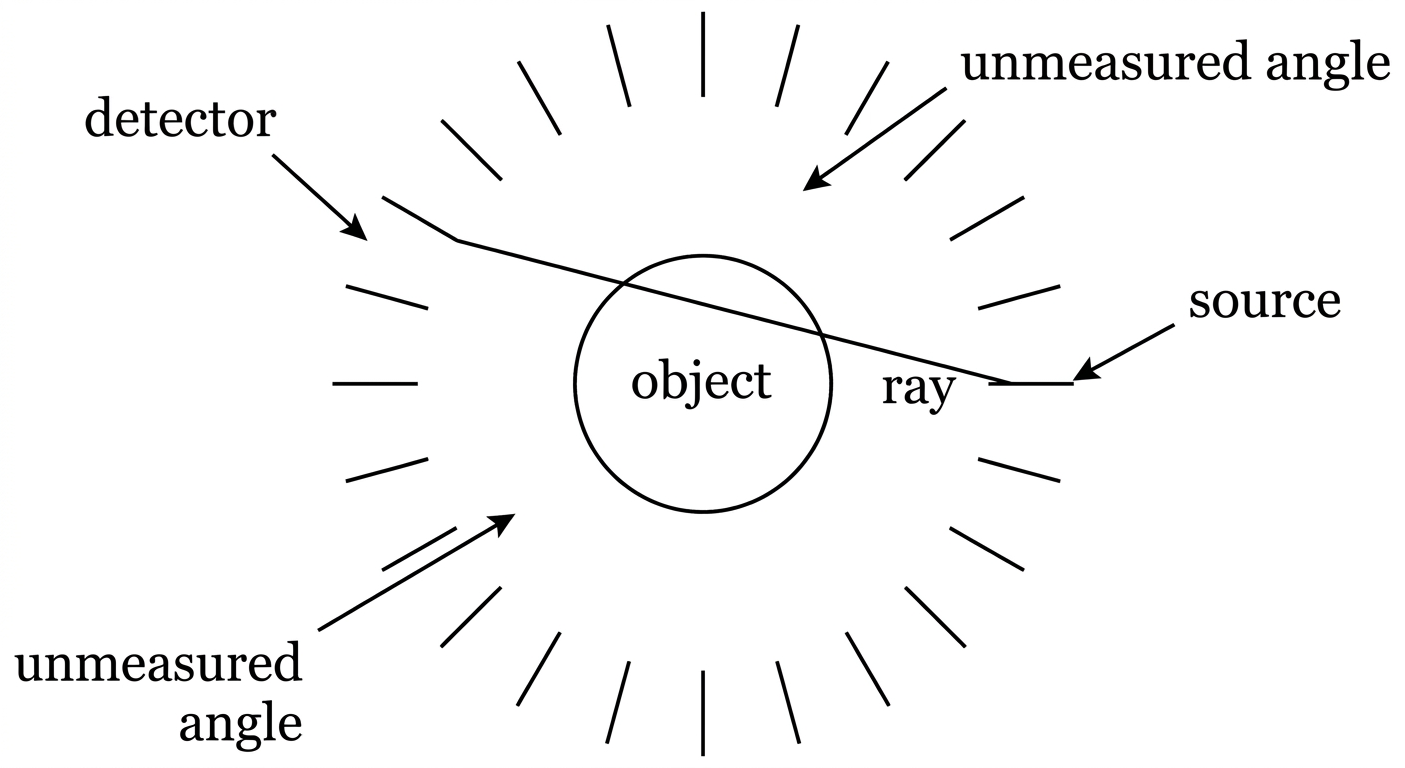
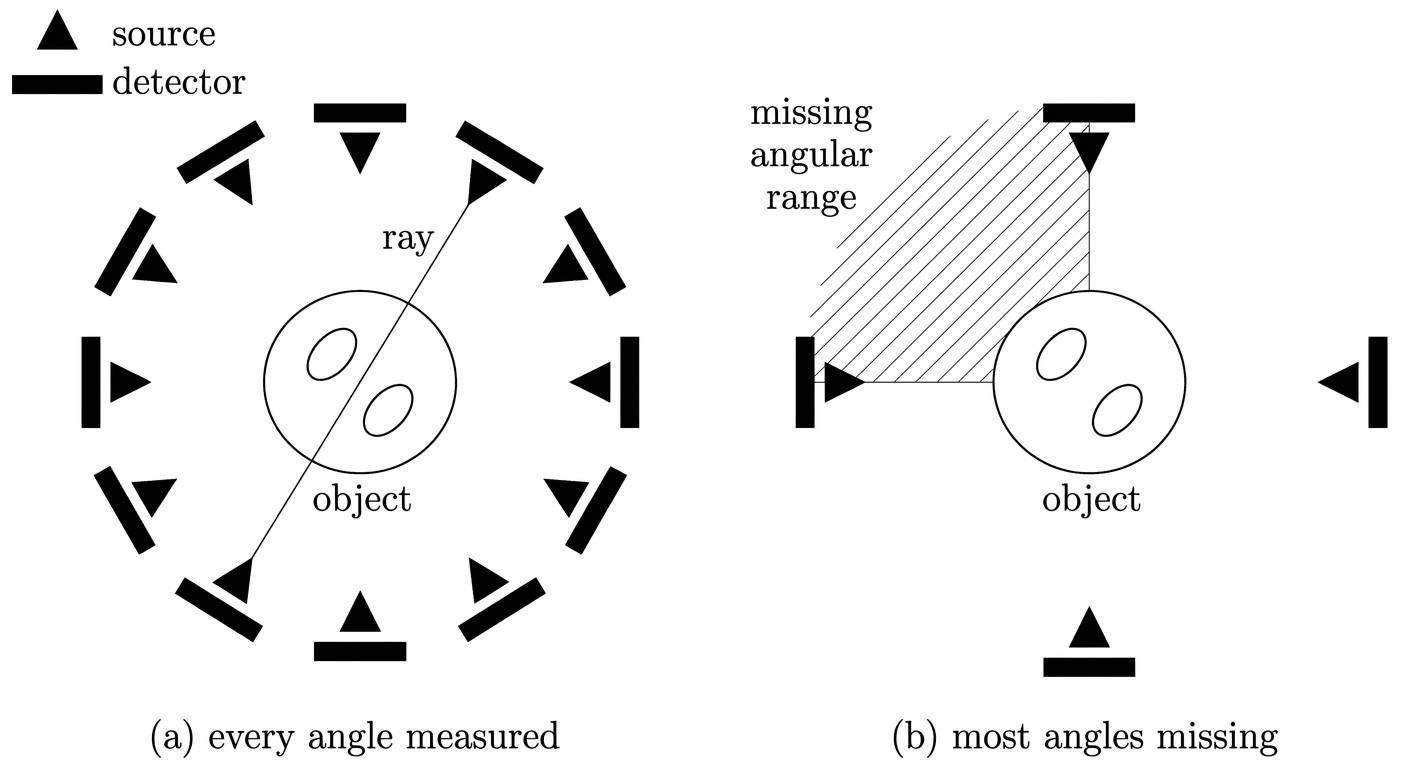
Redraw the CT and reservoir plates as two-panel diagrams
Both were single line drawings that stated their content without showing it. The
CT plate was a broken ring of identical radial ticks in which source and detector
were the same shape, so the only thing the reader could learn from it was "some
angles are absent". The reservoir plate was a layer stack whose plume sat as one
blob, while the chapter's argument is about a sequence.

Each is now a two-panel contrast, which is the form that carries the claim:

  CT geometry -- panel (a) twelve source-detector pairs spaced all the way round,
  panel (b) four pairs with the unsampled wedge hatched. Sources are filled
  triangles, detectors thick bars, identified by a corner legend rather than
  leader lines: three regeneration attempts showed that a model aiming a leader
  line will land it on the wrong object, and here it labelled a detector as a
  source. A legend removes the failure mode instead of asking for care. The ray
  is drawn with no arrowhead so it cannot be read as another source.

  Reservoir setting -- panel (a) the cross-section with the fault throw visible,
  the well turning horizontal in the reservoir and the plume shaded against the
  caprock; panel (b) the same stack three times, rises, arrests, spreads. The
  chapter's prose now points at that sequence rather than describing it only in
  words, and "base" became "basement" to match the plate.

Policy unchanged: structural content only, no depths, angles, counts, colorbars
[…]

diff --git a/figures/make_diagrams.py b/figures/make_diagrams.py
@@ -128,33 +128,56 @@ PROMPTS: dict[str, dict] = {
     "fig_subsurface_geometry": {
         "host": "chapters/part3/04-subsurface-multiphase-flow-and-carbon-stor.tex",
         "text": (
-            "A single 2D geological cross-section, schematic, drawn only with lines and "
-            "labels. A rectangle. Inside it, from top to bottom, four horizontal layers "
-            "separated by thin lines, labelled on the right edge in this order: "
-            "'overburden', 'caprock', 'reservoir', 'base'. A single straight fault line "
-            "cuts diagonally through all four layers, offsetting the layer boundaries on "
-            "the right side downward, and is labelled 'fault'. A thin vertical-then-"
-            "horizontal line enters from the top and ends inside the reservoir layer, "
-            "labelled 'injection well'. A closed lens-shaped region drawn just below the "
-            "caprock inside the reservoir, adjacent to the fault, is labelled 'plume'.\n"
-            "No numbers, no depths, no distances, no axis ticks, no color, no shading, no "
-            "colorbar, no percentages, no time labels."
+            "Two panels side by side, labelled (a) and (b). Clean textbook cross-section, thin black "
+            "lines on white, generous spacing, no clutter.\n\n"
+            "PANEL (a) - the setting. A wide rectangle divided by three horizontal lines into four "
+            "stacked bands. Name each band inside its own band, left aligned, top to bottom: "
+            "'overburden', 'caprock', 'reservoir', 'basement'. One straight fault line runs "
+            "diagonally from the top edge to the bottom edge, cutting all four bands, and the bands "
+            "right of the fault are drawn slightly lower than left of it so the throw is visible. "
+            "Label it 'fault' with a short leader line onto the diagonal. A well enters vertically "
+            "through overburden and caprock, then turns horizontal inside the reservoir; label it "
+            "'injection well'. A shaded lens-shaped body sits in the reservoir touching the underside "
+            "of the caprock; label it 'CO2 plume'. Add a small upward arrow under the lens and a "
+            "rightward arrow along the top of the reservoir.\n\n"
+            "PANEL (b) - what must be resolved. Three small copies of the same layer stack side by "
+            "side, fault omitted for clarity. First: a small blob just above the well tip with an "
+            "upward arrow, captioned 'rises'. Second: the blob flattened against the underside of the "
+            "caprock, captioned 'arrests'. Third: a wide thin lens spread along the caprock, "
+            "captioned 'spreads'. Below the three, one line: 'the far edge, not the interior, is what "
+            "containment asks about'.\n\n"
+            "No numbers, no depths, no thicknesses, no distances, no years, no axis ticks, no "
+            "colorbar, no grayscale field. The only filled shape is the plume lens."
         ),
     },
     "fig_ct_geometry": {
         "host": "chapters/part3/06-medical-imaging-and-tomographic-reconstruc.tex",
         "text": (
-            "A single 2D schematic of a tomographic acquisition geometry. A circle in the "
-            "middle labelled 'object'. Around it, a broken ring of short radial line "
-            "segments indicating detector positions, with wide angular gaps left empty. "
-            "One leader line points to a segment labelled 'detector', one points to a "
-            "source position opposite it labelled 'source', and one points into an empty "
-            "gap labelled 'unmeasured angle'. A single straight line passes from a source "
-            "position through the circle to a detector position, labelled 'ray'.\n"
-            "No numbers, no counts, no color, no shading, no reconstructed image, no "
-            "grayscale phantom, no axis ticks."
+            "Two panels side by side, labelled (a) and (b). Clean textbook diagram of a computed "
+            "tomography scanner viewed from above. Thin black lines on white, no grayscale, no "
+            "anatomical detail, no clutter.\n\n"
+            "PANEL (a) - every angle measured. A circle in the middle labelled 'object', containing "
+            "two small inner ellipses so it reads as an object with structure. Around it, evenly "
+            "spaced all the way round, twelve source-detector pairs: each source is a small FILLED "
+            "TRIANGLE pointing inward, and directly opposite it a short THICK RECTANGULAR BAR as the "
+            "detector. Draw one straight line from one triangle through the object to its opposite "
+            "bar, and put the single word 'ray' beside the middle of that line. In the upper-left "
+            "corner place a two-row legend: first row a lone filled triangle followed by the word "
+            "'source', second row a lone thick bar followed by the word 'detector'. Do not draw any "
+            "leader line from those two words to the ring. Beneath the panel write 'every angle "
+            "measured'.\n\n"
+            "PANEL (b) - most angles missing. The same object circle with the same two inner "
+            "ellipses, but only four source-detector pairs, at top, right, bottom and left, leaving "
+            "wide empty gaps between them. Fill one of those empty wedge regions with light diagonal "
+            "hatching and write 'missing angular range' beside the hatched region. Beneath the panel "
+            "write 'most angles missing'.\n\n"
+            "Both panels use the same object size and the same triangle and bar shapes, so the only "
+            "visible difference is how many angles were sampled. The ray must be a plain thin line "
+            "with NO arrowhead at either end, so it cannot be mistaken for a source. No numbers, no "
+            "digits, no degrees, no axis ticks, no colorbar, no reconstructed image."
         ),
     },
+
 }
 
 

diff --git a/chapters/part3/04-subsurface-multiphase-flow-and-carbon-stor.tex b/chapters/part3/04-subsurface-multiphase-flow-and-carbon-stor.tex
@@ -222,7 +222,8 @@ schematically: the plate fixes which surfaces matter, not how far the plume trav
 buoyancy then does with those surfaces is the mechanism written into the flux law above. The
 gravity term drives gas upward along whatever permeability pathways are open to it, so the
 plume does not spread as a radial ring: it rises off the well tip, is arrested beneath the
-lower-permeability layer that caps the reservoir, and then spreads laterally beneath it. The
+lower-permeability layer that caps the reservoir, and then spreads laterally beneath it ---
+the three stages drawn in sequence in panel~(b). The
 features that decide containment --- the caprock, the fault, the wellbore itself --- are
 precisely the ones a surrogate could smear across a few grid cells and still score well on an
 interior field average, and it is the far edge of the plume, not its interior, that a
@@ -232,7 +233,15 @@ which is the tension this architecture is designed against.
 \begin{figure}[t]
 \centering
 \includegraphics[width=0.80\textwidth]{fig_subsurface_geometry.png}
-\caption{\textbf{The structural setting a storage-reservoir surrogate must resolve, as a cross-section.} Overburden, caprock, reservoir and base, cut by a fault that offsets the layer boundaries, with an injection well terminating in the reservoir and a plume lensing out beneath the caprock near the fault. The plate is schematic and carries no depths, thicknesses, times, potentials or color scale: it is drawn to show which surfaces and interfaces a surrogate has to represent, not to reproduce a published model. The U-FNO results discussed in this chapter are those of \cite{wen2022ufno}, and no geometric reading taken from this plate is attributable to that paper.}
+\caption{\textbf{The structural setting a storage-reservoir surrogate must resolve.} Panel~(a): the
+cross-section --- overburden, caprock, reservoir and basement, cut by a fault whose throw displaces the
+bands downward, an injection well turning horizontal inside the reservoir, and the plume shaded where it
+lenses against the caprock near the fault. Panel~(b): the same stack three times, showing what buoyancy
+does with it in sequence --- the plume rises off the well tip, arrests beneath the caprock, then spreads
+laterally along its underside. The plate is schematic and carries no depths, thicknesses, times,
+potentials or color scale: it is drawn to show which surfaces and interfaces a surrogate has to
+represent, not to reproduce a published model. The U-FNO results discussed in this chapter are those of
+\cite{wen2022ufno}, and no geometric reading taken from this plate is attributable to that paper.}
 \label{fig:vol3_sub}
 \end{figure}
 \index{plume migration!buoyant rise and lateral spreading}

diff --git a/chapters/part3/06-medical-imaging-and-tomographic-reconstruc.tex b/chapters/part3/06-medical-imaging-and-tomographic-reconstruc.tex
@@ -132,7 +132,15 @@ it.
 \begin{figure}[htbp]
 \centering
 \includegraphics[width=0.92\textwidth]{fig_ct_geometry.png}
-\caption{\textbf{Sparse-view acquisition geometry, as a schematic.} Sources and detectors sample a set of angles around the object, and the gaps between them are the angles never measured; a single ray is drawn from a source position through the object to the detector opposite it. The plate shows no phantom, no reconstruction, no Hounsfield value and no error figure. Quantitative claims about reconstruction belong to the text and its citations, not to this figure.}
+\caption{\textbf{Sparse-view acquisition geometry, as a two-panel schematic.} A source is drawn as a
+filled triangle and its opposing detector as a thick bar, identified once by a legend rather than by
+arrows aimed at the ring. Panel~(a): twelve source-detector pairs spaced all the way round the object,
+with one ray drawn plainly through it --- every angle measured. Panel~(b): four pairs, at top, right,
+bottom and left, and the hatched wedge is the angular range no view ever crosses --- most angles
+missing. The contrast between the panels is the whole content, and it is the contrast
+\eqref{eq:ch36-slice} turns into a null space: what is not sampled is not recovered. The plate shows
+no phantom reconstruction, no Hounsfield value and no error figure; quantitative claims belong to the
+text and its citations, not to this figure.}
 \label{fig:vol3_ct}
 \end{figure}
 
